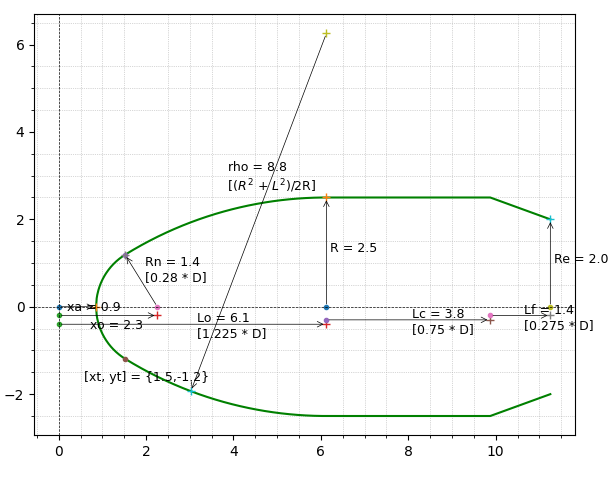
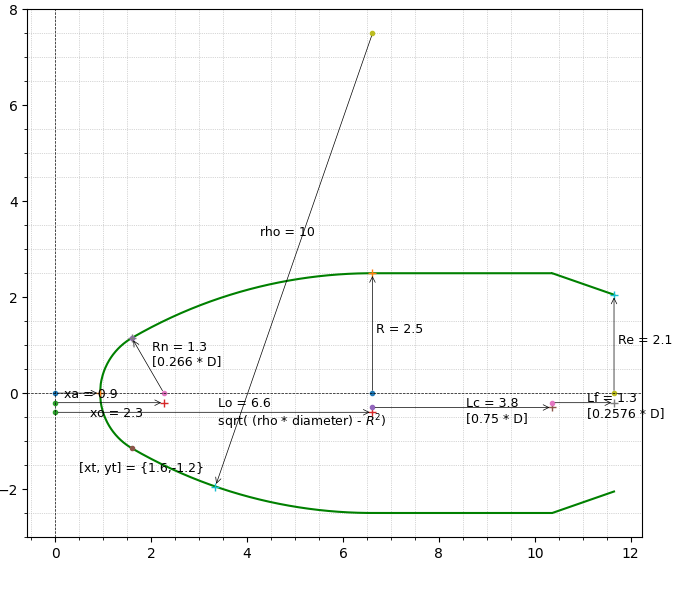
Modified for Current Composite Fairing

Changed region(s): [[0.0, 0.0, 0.9886, 0.9647]]

diff --git a/payload_fairing.py b/payload_fairing.py
@@ -3,13 +3,24 @@ import numpy as np
 
 # payload fairing (spherically blunted tangent ogive)
 def calc_payload_fairing(diameter):	
-	R = 0.5 * diameter				# radius
-	Lo= 1.225 * diameter			# Length of ogive part
-	rho= ( R**2 + Lo**2 ) / (2*R)	# rho = (R^2 + L^2)/2R
-	rn = 0.28 * diameter			# nose radius
 
 	# output values
 	x_out = []; y_out = []; yne_out = []
+
+	"""
+	sphere radius, rs = 1.330
+	tangency point, xt = 0.6615
+	ogive length, Lo = 1.225 * D
+	frustum length,  Lf = 0.2576 * D = 1.288
+	aft frustum dia, xf = 0.8208 * D = 4.104
+	cylinder length, Lc = 0.75 * D = 3.750	
+	"""
+	R = 0.5 * diameter		# fairing radius
+	rho= 10					# ogive radius
+	rn = 0.266 * diameter	# nose radius
+
+	# rho = ( R**2 + Lo**2 ) / (2*R)
+	Lo = np.sqrt( (rho * diameter) - R**2)
 
 	# tangency point (circle meets ogive)
 	xo = Lo - np.sqrt((rho - rn)**2 - (rho - R)**2)
@@ -45,11 +56,11 @@ def calc_payload_fairing(diameter):
 	x_out = np.append(x_out, x)
 	y_out = np.append(y_out, y)
 	yne_out=np.append(yne_out, yne)		
-	
+
 	# frustum part
 	x_i = x_out[-1]; y_i = y_out[-1];
-	Lf = Lc + (0.275 * diameter)	# Length of frustum part
-	x_end = Lf; y_end = 0.8 * diameter/2;
+	Lf = Lc + (0.2576 * diameter)	# Length of frustum part
+	x_end = Lf; y_end = 0.8208 * diameter/2;
 	# equation of the slanting line
 	slope = (y_end - y_i) / (x_end - x_i)
 	intercept = ( (x_end * y_i) - (x_i * y_end) ) / ( x_end - x_i)
@@ -61,18 +72,25 @@ def calc_payload_fairing(diameter):
 	x_out = np.append(x_out, x)
 	y_out = np.append(y_out, y)
 	yne_out=np.append(yne_out, yne)	
-	
+
 	# other dimensions
 	a_dim = (R, Lo, rn, rho, xo, xa, xt, yt)
 	
 	return a_dim, x_out, y_out, yne_out
 
-	
 # find the nearest index in the list for the given value
 def find_nearest(array, value):
     array = np.asarray(array)
     idx = (np.abs(array - value)).argmin()
     return idx, array[idx]	
+
+# ar_from = [0, -0.2]; ar_to = [xo, -0.2]; text_loc=[xo/2-0.5, -0.5]
+# text = ' xo = '+ str(round( xo,1 ) )
+def arrow(ax, ar_from, ar_to, text, text_loc): 
+	ax.plot(ar_from[0], ar_from[1], '.' ); ax.plot(ar_to[0], ar_to[1], '+' );
+	ax.annotate( "", ar_from, ar_to , arrowprops=dict(lw=0.5, arrowstyle='<-') )	
+	ax.text(text_loc[0], text_loc[1], text, fontsize=9 )	
+	return
 
 # 2D plot
 def plot2D(ax, d, x, y, yne, ifdim=False):
@@ -88,15 +106,11 @@ def plot2D(ax, d, x, y, yne, ifdim=False):
 	if ifdim:
 		# apex length
 		text = ' xa = '+ str(round( xa,1 ) )
-		ax.plot(0, 0, '.' ); ax.plot(xa, 0, '+' );
-		ax.annotate( "", [0, 0], [xa, 0] , arrowprops=dict(lw=0.5, arrowstyle='<-') )	
-		ax.text(0.1, -0.1, text, fontsize=9 )
+		arrow(ax, [0, 0], [xa, 0], text, [0.1, -0.1])
 				
 		# center of the spherical nose cap
 		text = ' xo = '+ str(round( xo,1 ) ) 
-		ax.plot(0, -0.2, '.' ); ax.plot(xo, -0.2, '+' );
-		ax.annotate( "", [0, -0.2], [xo, -0.2] , arrowprops=dict(lw=0.5, arrowstyle='<-') )	
-		ax.text(xo/2-0.5, -0.5, text, fontsize=9 )
+		arrow(ax, [0, -0.2], [xo, -0.2], text, [xo/2-0.5, -0.5])
 		
 		# tangency point
 		text = ' [xt, yt] = {'+ str(round(xt,1)) +','+ str(round(-yt,1)) + '} '
@@ -104,55 +118,38 @@ def plot2D(ax, d, x, y, yne, ifdim=False):
 		ax.text(-xt+2, -yt-0.5, text, fontsize=9 )
 				
 		# blunt sphere radius, inlet radial line [xo, 0] to [xt, yt]
-		text = ' Rn = '+ str(round(rn,1)) + ' \n [0.28 * D] '
-		ax.plot(xo, 0, '.' ); ax.plot(xt, yt, '+' )
-		# draw dimension from [xo, 0] to [xt, yt]
-		ax.annotate( "", [xo, 0], [xt, yt] , arrowprops=dict(lw=0.5, arrowstyle='<-') )
-		ax.text((xo+xt)/2, (0+yt)/2, text, fontsize=9 )
+		text = ' Rn = '+ str(round(rn,1)) + ' \n [0.266 * D] '
+		arrow(ax, [xo, 0], [xt, yt], text, [(xo+xt)/2, (0+yt)/2])
 				
 		# ogive radius 
-		text = ' rho = '+ str(round(rho,1)) + ' \n [($R^2$ + $L^2$)/2R] ' #$10^1$
+		text = ' rho = '+ str(round(rho,1)) 
 		# array mid point value
-		x_near = Lo/2
-		x_index, x_middle = find_nearest(x, x_near)		
+		x_index, x_middle = find_nearest(x, Lo/2)		
 		y_middle = y[x_index]
-		ax.plot(Lo, rho-R, '+' ); ax.plot(x_middle, -y_middle, '+' )
-		ax.annotate( "", [Lo, rho-R], [x_middle, -y_middle] , arrowprops=dict(lw=0.5, arrowstyle='<-') )	
-		ax.text((Lo+x_middle)/2-0.8, ((rho-R)-y_middle)/2+0.5, text, fontsize=9 )
+		arrow(ax, [Lo, rho-R], [x_middle, -y_middle], text, [(Lo+x_middle)/2-0.8, ((rho-R)-y_middle)/2+0.5])
 		
 		# diameter
-		text = ' R = '+ str(round(R,1)) + ' '
-		ax.plot(Lo, 0, '.' ); ax.plot(Lo, R, '+' );
-		ax.annotate( "", [Lo, 0], [Lo, R] , arrowprops=dict(lw=0.5, arrowstyle='<-') )	
-		ax.text(Lo, R/2, text, fontsize=9 )
+		text = ' R = '+ str(round(R,1))
+		arrow(ax, [Lo, 0], [Lo, R], text, [Lo, R/2])
 				
 		# ogive length
-		text = ' Lo = '+ str(round( Lo,1 ) ) + ' \n [1.225 * D] '
-		ax.plot(0, -0.4, '.' ); ax.plot(Lo, -0.4, '+' );
-		ax.annotate( "", [0, -0.4], [Lo, -0.4] , arrowprops=dict(lw=0.5, arrowstyle='<-') )	
-		ax.text((Lo)/2, -0.7, text, fontsize=9 )
+		text = ' Lo = '+ str(round( Lo,1 ) ) + ' \n sqrt( (rho * diameter) - $R^2$) '
+		arrow(ax, [0, -0.4], [Lo, -0.4] , text, [(Lo)/2, -0.7])
 		
 		# cylinder length
 		Lc = Lo + (0.75 * 2 * R)	
 		text = ' Lc = '+ str(round( (0.75 * 2 * R),1 ) ) + ' \n [0.75 * D] '
-		ax.plot(Lo, -0.3, '.' ); ax.plot(Lc, -0.3, '+' );
-		ax.annotate( "", [Lo, -0.3], [Lc, -0.3] , arrowprops=dict(lw=0.5, arrowstyle='<-') )	
-		ax.text((Lo+Lc)/2, -0.6, text, fontsize=9 )
+		arrow(ax, [Lo, -0.3], [Lc, -0.3] , text, [(Lo+Lc)/2, -0.6])
 		
 		# frustum length
-		Lf = Lc + (0.275 *  2 * R)
-		text = ' Lf = '+ str(round( (0.275 * 2 * R),1 ) ) + ' \n [0.275 * D] '
-		ax.plot(Lc, -0.2, '.' ); ax.plot(Lf, -0.2, '+' );
-		ax.annotate( "", [Lc, -0.2], [Lf, -0.2] , arrowprops=dict(lw=0.5, arrowstyle='<-') )
-		ax.text((Lc+Lf)/2, -0.5, text, fontsize=9 )
+		Lf = Lc + (0.2576 *  2 * R)
+		text = ' Lf = '+ str(round( (0.2576 * 2 * R),1 ) ) + ' \n [0.2576 * D] '
+		arrow(ax, [Lc, -0.2], [Lf, -0.2], text, [(Lc+Lf)/2, -0.5])
 		
 		# end diameter
-		Rt = 0.8 * R
-		text = ' Re = '+ str(round(Rt,1)) + ' '
-		Lt = 2.25 * 2 * R
-		ax.plot(Lt, 0, '.' ); ax.plot(Lt, Rt, '+' );
-		ax.annotate( "", [Lt, 0], [Lt, Rt] , arrowprops=dict(lw=0.5, arrowstyle='<-') )	
-		ax.text(Lt, Rt/2, text, fontsize=9 )		
+		Rt = 0.8208 * R
+		text = ' Re = '+ str(round(Rt,1))	
+		arrow(ax, [Lf, 0], [Lf, Rt], text, [Lf, Rt/2])	
 
 	# axis
 	ax.axhline(color='black', lw=0.5, linestyle="dashed")
@@ -201,7 +198,7 @@ def _set_axes_radius(ax, origin, radius):
     return
 
 # 3d plot
-def plot3D(ax, d, x, y, yne):
+def plot3D(ax, d, x, y, yne, ifdim=False):
 	# unpack the dimension values
 	R, Lo, rn, rho, xo, xa, xt, yt = d
 	
@@ -220,10 +217,7 @@ def plot3D(ax, d, x, y, yne):
 	ax.view_init(-170, -15)
 	return
 
-def plot(d, x, y, yne):
-	# set flag if dimensions in 2d plot are needed
-	ifdim = True
-		
+def plot(d, x, y, yne, ifdim=False):
 	# Plot 3d view
 	fig = plt.figure(figsize=(12,9))
 	# plot some 2d information
@@ -231,7 +225,7 @@ def plot(d, x, y, yne):
 	plot2D(ax1, d, x, y, yne, ifdim)
 	# plot 3d view
 	ax2 = fig.add_subplot(122, projection='3d')
-	plot3D(ax2, d, x, y, yne)	
+	plot3D(ax2, d, x, y, yne, ifdim)	
 	# show
 	fig.tight_layout(rect=[0, 0.03, 1, 0.95])
 	plt.show()
@@ -243,8 +237,10 @@ if __name__ == '__main__':
 	
 	# calculate values
 	d, x, y, yne = calc_payload_fairing(fairing_dia)
-	
+
+	# set flag if dimensions in 2d plot are needed
+	ifdim = True	
 	# and plot it
-	plot(d, x, y, yne)
+	plot(d, x, y, yne, ifdim)
 
 

diff --git a/README.md b/README.md
@@ -1,6 +1,9 @@
 # GSLV MK-III Payload Fairing
 > This script creates GSLV Mk-III payload fairing contour in 2D with dimensions and a 3D view.   
 
+# Update    
+Updated to reflect the changes from metallic to composite fairing dimensions.
+
 ## Table of contents
 * [Screenshots](#screenshots)
 * [General info](#general-info)
@@ -13,7 +16,7 @@
 
 ## Screenshots
 Output generated by the script.   
-####GSLV-MkIII payload fairing 
+#####GSLV-MkIII payload fairing 
 ![results](./img/2D.png)   
 ![results](./img/3D.png)   
 
@@ -44,6 +47,9 @@ http://www.rimworld.com/nassarocketry/pdfs/050-NOSE%20CONE%20DESIGN.pdf
 
 2.  Design and Analysis of a Metallic Ogive Payload Fairing for a New Generation Launch Vehicle    
 https://www.iosrjournals.org/iosr-jmce/papers/vol13-issue5/Version-1/N13050199103.pdf    
+
+3.  expression_of_interest_-_vssc-2017.pdf   
+https://www.isro.gov.in/sites/default/files/tenders/expression_of_interest_-_vssc-2017.pdf    
 &nbsp;   
 
 ## Setup
@@ -59,7 +65,9 @@ Script is written with python (Version: Python 3.8.5) on linux. Additional modul
 
 
 ## Updates   
-* 
+* [26Jan2021]   
+  Updated the code to reflect the changes in payload fairing from metallic structure to composite. Extracted information from the isro tender details as included in reference no.3   
+![results](./img/composite.png)   
 
 ## To-do list
 * 
